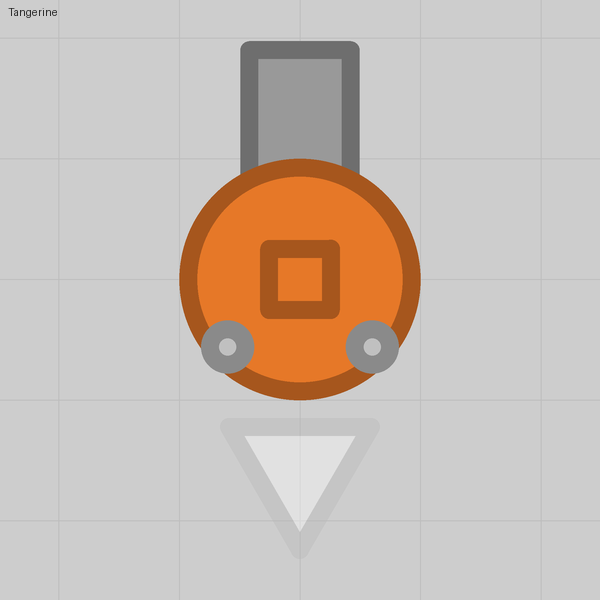
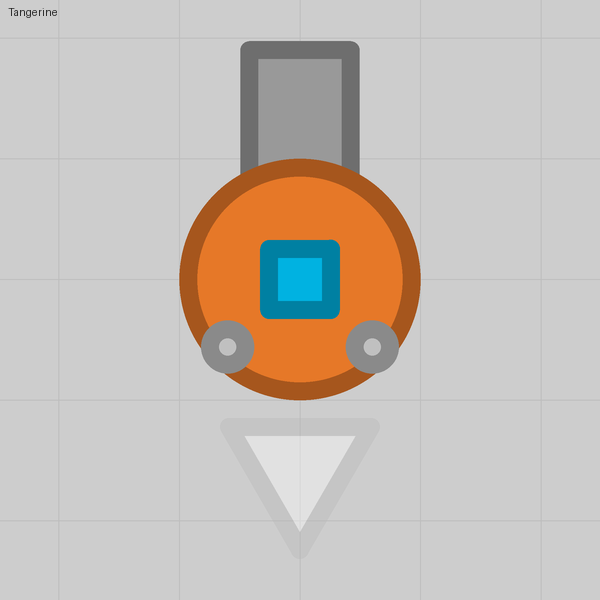
Lesson 22: a boss's own stat levels (the editor update of 2026-10-09); mock editor Boss stats panel
The editor update of 9 October 2026 gives every boss record its own stat levels
(0-12, stock levels 7 everywhere and 0 Health Regen; Max all). Lesson 22 says
so where it said the levels were fixed at 7; the mock inspector shows a Boss
stats panel from the record; the README and index name the update. Rebuilt
with skill 1.9.0, whose renderer now draws a 27 part on a hex hull in the
team colour, so lesson 21's Tangerine render and the sheet changed.

Changed region(s): [[0.42, 0.39, 0.57, 0.54]]

diff --git a/docs/22-boss.html b/docs/22-boss.html
@@ -23,15 +23,15 @@
 <h2>The trick</h2>
 <figure class="chalk"><svg xmlns="http://www.w3.org/2000/svg" viewBox="0 0 600 460" role="img" aria-label="A boss record wraps the tank: the same tank at Size 2.5, with its own health, brain and spawn rule" class="chalkboard"><title>A boss record wraps the tank: the same tank at Size 2.5, with its own health, brain and spawn rule</title><defs><filter id="ch-22-boss-c" x="-5%" y="-5%" width="110%" height="110%"><feTurbulence type="fractalNoise" baseFrequency="0.8" numOctaves="2" seed="7" result="n"/><feDisplacementMap in="SourceGraphic" in2="n" scale="2.6" xChannelSelector="R" yChannelSelector="G" result="d"/><feTurbulence type="fractalNoise" baseFrequency="1.6" numOctaves="1" seed="3" result="g"/><feColorMatrix in="g" type="matrix" values="0 0 0 0 0  0 0 0 0 0  0 0 0 0 0  0 0 0 -2.2 1.75" result="m"/><feComposite in="d" in2="m" operator="in"/></filter><filter id="ch-22-boss-t"><feTurbulence type="fractalNoise" baseFrequency="0.9" numOctaves="1" seed="5" result="n"/><feDisplacementMap in="SourceGraphic" in2="n" scale="1.3" xChannelSelector="R" yChannelSelector="G"/></filter></defs><rect x="3" y="3" width="594" height="454" rx="10" fill="#2c4a3a" stroke="#6b4a2e" stroke-width="6"/><ellipse cx="150" cy="138" rx="132" ry="60.7" fill="#ffffff" opacity="0.035"/><ellipse cx="450" cy="322" rx="180" ry="82.8" fill="#ffffff" opacity="0.035"/><ellipse cx="360" cy="69" rx="90" ry="41.4" fill="#ffffff" opacity="0.035"/><g filter="url(#ch-22-boss-c)"><g class="fig"><polygon points="149.8,107.1 139.6,124.6 129.5,107" fill="#36584a" stroke="#efeee6" stroke-width="3"/><polygon points="110,175.9 99.9,158.3 120.1,158.4" fill="#36584a" stroke="#efeee6" stroke-width="3"/><polygon points="70.2,107 90.5,107.1 80.4,124.6" fill="#36584a" stroke="#efeee6" stroke-width="3"/><polygon points="100.6,130 93.5,161.5 126.5,161.5 119.4,130" fill="#36584a" stroke="#efeee6" stroke-width="3"/><polygon points="121.3,130 121.3,76 98.7,76 98.7,130" fill="#36584a" stroke="#efeee6" stroke-width="3"/><polygon points="105.3,138.2 142.3,159.6 151.7,143.2 114.7,121.8" fill="#36584a" stroke="#efeee6" stroke-width="3"/><polygon points="105.3,121.8 68.3,143.2 77.7,159.6 114.7,138.2" fill="#36584a" stroke="#efeee6" stroke-width="3"/><circle cx="110" cy="130" r="27" fill="#3a6670" stroke="#efeee6" stroke-width="3"/><polygon points="110,112 125.6,139 94.4,139" fill="#36584a" stroke="#efeee6" stroke-width="3"/></g><g class="fig"><polygon points="477.2,193.9 452.4,236.8 427.6,193.9" fill="#36584a" stroke="#efeee6" stroke-width="3"/><polygon points="380,362.2 355.2,319.3 404.8,319.3" fill="#36584a" stroke="#efeee6" stroke-width="3"/><polygon points="282.8,193.9 332.4,193.9 307.6,236.8" fill="#36584a" stroke="#efeee6" stroke-width="3"/><polygon points="356.9,250 339.6,327 420.4,327 403.1,250" fill="#36584a" stroke="#efeee6" stroke-width="3"/><polygon points="407.5,250 407.5,118 352.5,118 352.5,250" fill="#36584a" stroke="#efeee6" stroke-width="3"/><polygon points="368.4,270 458.9,322.3 482,282.2 391.6,230" fill="#36584a" stroke="#efeee6" stroke-width="3"/><polygon points="368.4,230 278,282.2 301.1,322.3 391.6,270" fill="#36584a" stroke="#efeee6" stroke-width="3"/><circle cx="380" cy="250" r="66" fill="#3a6670" stroke="#efeee6" stroke-width="3"/><polygon points="380,206 418.1,272 341.9,272" fill="#36584a" stroke="#efeee6" stroke-width="3"/></g><path d="M165,150 Q207.5,167.5 240,200" fill="none" stroke="#f6e27a" stroke-width="3.5" stroke-linecap="round"/><path d="M235.9,185.8 L240,200 L225.8,195.9" fill="none" stroke="#f6e27a" stroke-width="3.5" stroke-linecap="round" stroke-linejoin="round"/><path d="M239.4,340.2 Q304,371.2 375.1,361.4" fill="none" stroke="#f6e27a" stroke-width="3.5" stroke-linecap="round"/><path d="M361.2,356.1 L375.1,361.4 L363.2,370.3" fill="none" stroke="#f6e27a" stroke-width="3.5" stroke-linecap="round" stroke-linejoin="round"/><polygon points="549,415.6 524.4,409 531,384.4 555.6,391" fill="#55524a" stroke="#f4a7b9" stroke-width="3"/><path d="M510,380 Q464.5,295.5 380,250" fill="none" stroke="#f4a7b9" stroke-width="3.5" stroke-linecap="round" stroke-dasharray="8 7"/><path d="M388.1,262.5 L380,250 L394.8,249.9" fill="none" stroke="#f4a7b9" stroke-width="3.5" stroke-linecap="round" stroke-linejoin="round"/><path d="M223.6,401.2 Q361.5,450 495,390.2" fill="none" stroke="#f6e27a" stroke-width="3.5" stroke-linecap="round"/><path d="M480.2,389 L495,390.2 L486.1,402" fill="none" stroke="#f6e27a" stroke-width="3.5" stroke-linecap="round" stroke-linejoin="round"/></g><text filter="url(#ch-22-boss-t)" font-family="Caveat, 'Segoe Print', 'Comic Sans MS', cursive" font-size="30" font-weight="700" fill="#efeee6" text-anchor="middle" dominant-baseline="middle"><tspan x="110" y="215">the tank</tspan></text><text filter="url(#ch-22-boss-t)" font-family="Caveat, 'Segoe Print', 'Comic Sans MS', cursive" font-size="33" font-weight="700" fill="#f6e27a" text-anchor="middle" dominant-baseline="middle"><tspan x="110" y="304.3">Size 2.5: the whole</tspan><tspan x="110" y="335.7">tank scales</tspan></text><text filter="url(#ch-22-boss-t)" font-family="Caveat, 'Segoe Print', 'Comic Sans MS', cursive" font-size="28" font-weight="700" fill="#f6e27a" text-anchor="middle" dominant-baseline="middle"><tspan x="470" y="22.1">Boss: Warden</tspan><tspan x="470" y="48.7">Health 6000</tspan><tspan x="470" y="75.3">Brain: Simple</tspan><tspan x="470" y="101.9">Charge and ram</tspan></text><text filter="url(#ch-22-boss-t)" font-family="Caveat, 'Segoe Print', 'Comic Sans MS', cursive" font-size="24" font-weight="700" fill="#f4a7b9" text-anchor="middle" dominant-baseline="middle"><tspan x="540" y="440">a player</tspan></text><text filter="url(#ch-22-boss-t)" font-family="Caveat, 'Segoe Print', 'Comic Sans MS', cursive" font-size="28" font-weight="700" fill="#f6e27a" text-anchor="middle" dominant-baseline="middle"><tspan x="130" y="378.4">Spot range 2000:</tspan><tspan x="130" y="405">it fights what</tspan><tspan x="130" y="431.6">comes close</tspan></text></svg></figure>
 <p>The editor update of 6 October 2026 added a <b>Bosses</b> tab. A boss is two things:</p>
-<ol><li><b>A tank</b> like any other, usually a <b>boss copy</b>: select a tank and press <b>Make a boss copy</b>. The copy is marked boss-only, so the editor drops it from the class tree and the starters, and its <b>Stat levels</b> panel is fixed at 7 for every stat (health regen 0) and read-only. You can still edit its parts and barrels, and that is where its guns, drones and hitboxes come from.</li><li><b>A boss record</b> in the Bosses tab (<b>New boss</b>, or <b>New boss from copy</b>) that picks the tank and sets everything else: <b>Name</b>, <b>Spawn message</b>, <b>Size</b>, <b>Health</b>, the score it is worth, its <b>Brain</b>, what it does when it spots a player, where and how often it spawns.</li></ol>
+<ol><li><b>A tank</b> like any other, usually a <b>boss copy</b>: select a tank and press <b>Make a boss copy</b>. The copy is marked boss-only, so the editor drops it from the class tree and the starters. Its stats panel becomes <b>Boss stats</b>: eight sliders, 0 to 12, for the level the boss plays each stat at (the update of 9 October 2026; before it every boss played at 7). <b>Stock levels</b> puts them back to 7 everywhere and 0 Health Regen, the stock bosses' way; <b>Max all</b> sets twelve everywhere. The tank's own stat caps do not apply to a boss. You can still edit its parts and barrels, and that is where its guns, drones and hitboxes come from.</li><li><b>A boss record</b> in the Bosses tab (<b>New boss</b>, or <b>New boss from copy</b>) that picks the tank and sets everything else: <b>Name</b>, <b>Spawn message</b>, <b>Size</b>, <b>Health</b>, the score it is worth, its <b>Brain</b>, what it does when it spots a player, where and how often it spawns.</li></ol>
 <p>The demo tank is the boss copy; the record is shown under the body in the mock inspector.</p>
-<div class="scene" data-scene><script type="application/json">{"steps": [{"show": [], "focus": "Tank body", "say": "The tank: **Body size 60** in **Fallen**, the stock bosses' grey. Its **Stat levels** are fixed at 7: a boss plays maxed."}, {"show": ["horn 1 (collidable)", "horn 2 (collidable)", "horn 3 (collidable)"], "focus": "horn 1 (collidable)", "say": "Three triangles of **Size 26** with **Collidable** on: the boss rams with them. Up to eight parts can be collidable since the update (lesson 12)."}, {"show": ["horn 1 (collidable)", "horn 2 (collidable)", "horn 3 (collidable)", "spawner", "main gun", "side gun left", "side gun right"], "focus": "main gun", "say": "Its weapons: a wide **Length 120** cannon, two side guns at **Angle ±120**, and a rear **spawner** with 4 drones. The simple brain fires every gun it has; the drones hunt on their own."}, {"show": "all", "focus": "Tank body", "say": "Now scroll the inspector to the **Boss** sections: the record from the Bosses tab. **Size 2.5**, **Health 6000**, **Brain: Simple**, **When it spots a player: Charge and ram** within **Spot range 2000**, **Wander around** otherwise, spawning in the inner **0 to 0.4** of the map."}, {"live": true, "say": "**Play** drives the tank itself, at level 1 size. In the game the record takes over: the boss AI drives it at Size 2.5, and a player can press **H** to take control."}], "tank": {"id": 100001, "name": "Warden", "minLevel": 1, "body": {"sides": 0, "size": 60, "color": 17}, "projectiles": [{"name": "Drone", "base": "drone", "sides": -1}, {"name": "Bullet", "base": "bullet", "sides": -1}], "invisibility": {"gain": 0.03076923076923077, "lossOnHit": 0.05}, "statsMaxLevel": [7, 7, 7, 7, 7, 7, 7, 7], "editor": {"boss": true}, "barrels": [{"bulletType": "drone", "projectile": 0, "flags": {"forceFire": true}, "angle": 3.1416, "distance": 70, "muzzleScale": 1.75, "numDrones": 4, "droneAggressiveCrashRadius": 900, "damageMultiplier": 0.7, "penetrationMultiplier": 2, "speedMultiplier": 0.8, "reloadMultiplier": 6, "order": 4, "editor": {"name": "spawner"}}, {"bulletType": "bullet", "projectile": 1, "distance": 120, "heightMultiplier": 1.1905, "order": 5, "editor": {"name": "main gun"}}, {"bulletType": "bullet", "projectile": 1, "angle": 2.0944, "order": 6, "editor": {"name": "side gun left"}}, {"bulletType": "bullet", "projectile": 1, "angle": -2.0944, "order": 7, "editor": {"name": "side gun right"}}], "bodyShapes": [{"sides": 3, "size": 40, "aboveBody": true, "color": 20, "order": 0, "editor": {"name": "crest"}}, {"sides": 3, "size": 26, "xOffset": 38, "yOffset": 65.8179, "angle": 1.0472, "color": 17, "collidable": true, "order": 1, "editor": {"name": "horn 1 (collidable)"}}, {"sides": 3, "size": 26, "xOffset": -76, "angle": 3.1416, "color": 17, "collidable": true, "order": 2, "editor": {"name": "horn 2 (collidable)"}}, {"sides": 3, "size": 26, "xOffset": 38, "yOffset": -65.8179, "angle": 5.236, "color": 17, "collidable": true, "order": 3, "editor": {"name": "horn 3 (collidable)"}}]}, "packFile": "lesson-22-boss.diep-pack", "packName": "Lesson 22 Boss", "author": "☀", "label": "#C1", "boss": {"tank": 100001, "name": "Warden", "spawnMessage": "The Warden wakes!", "maxHealth": 6000, "xpBounty": 50000, "scale": 2.5, "ai": {"aggressiveCrashRadius": 2000}, "minDamageMultiplier": 4}}</script><noscript>The interactive demo needs JavaScript.</noscript></div>
+<div class="scene" data-scene><script type="application/json">{"steps": [{"show": [], "focus": "Tank body", "say": "The tank: **Body size 60** in **Fallen**, the stock bosses' grey. Its **Boss stats** are the stock levels: 7 everywhere, Health Regen 0. Raise Body Damage and Max Health for a rammer, Reload and Bullet Damage for a gunner."}, {"show": ["horn 1 (collidable)", "horn 2 (collidable)", "horn 3 (collidable)"], "focus": "horn 1 (collidable)", "say": "Three triangles of **Size 26** with **Collidable** on: the boss rams with them. Up to eight parts can be collidable since the update (lesson 12)."}, {"show": ["horn 1 (collidable)", "horn 2 (collidable)", "horn 3 (collidable)", "spawner", "main gun", "side gun left", "side gun right"], "focus": "main gun", "say": "Its weapons: a wide **Length 120** cannon, two side guns at **Angle ±120**, and a rear **spawner** with 4 drones. The simple brain fires every gun it has; the drones hunt on their own."}, {"show": "all", "focus": "Tank body", "say": "Now scroll the inspector to the **Boss** sections: the record from the Bosses tab. **Size 2.5**, **Health 6000**, **Brain: Simple**, **When it spots a player: Charge and ram** within **Spot range 2000**, **Wander around** otherwise, spawning in the inner **0 to 0.4** of the map."}, {"live": true, "say": "**Play** drives the tank itself, at level 1 size. In the game the record takes over: the boss AI drives it at Size 2.5, and a player can press **H** to take control."}], "tank": {"id": 100001, "name": "Warden", "minLevel": 1, "body": {"sides": 0, "size": 60, "color": 17}, "projectiles": [{"name": "Drone", "base": "drone", "sides": -1}, {"name": "Bullet", "base": "bullet", "sides": -1}], "invisibility": {"gain": 0.03076923076923077, "lossOnHit": 0.05}, "statsMaxLevel": [7, 7, 7, 7, 7, 7, 7, 7], "editor": {"boss": true}, "barrels": [{"bulletType": "drone", "projectile": 0, "flags": {"forceFire": true}, "angle": 3.1416, "distance": 70, "muzzleScale": 1.75, "numDrones": 4, "droneAggressiveCrashRadius": 900, "damageMultiplier": 0.7, "penetrationMultiplier": 2, "speedMultiplier": 0.8, "reloadMultiplier": 6, "order": 4, "editor": {"name": "spawner"}}, {"bulletType": "bullet", "projectile": 1, "distance": 120, "heightMultiplier": 1.1905, "order": 5, "editor": {"name": "main gun"}}, {"bulletType": "bullet", "projectile": 1, "angle": 2.0944, "order": 6, "editor": {"name": "side gun left"}}, {"bulletType": "bullet", "projectile": 1, "angle": -2.0944, "order": 7, "editor": {"name": "side gun right"}}], "bodyShapes": [{"sides": 3, "size": 40, "aboveBody": true, "color": 20, "order": 0, "editor": {"name": "crest"}}, {"sides": 3, "size": 26, "xOffset": 38, "yOffset": 65.8179, "angle": 1.0472, "color": 17, "collidable": true, "order": 1, "editor": {"name": "horn 1 (collidable)"}}, {"sides": 3, "size": 26, "xOffset": -76, "angle": 3.1416, "color": 17, "collidable": true, "order": 2, "editor": {"name": "horn 2 (collidable)"}}, {"sides": 3, "size": 26, "xOffset": 38, "yOffset": -65.8179, "angle": 5.236, "color": 17, "collidable": true, "order": 3, "editor": {"name": "horn 3 (collidable)"}}]}, "packFile": "lesson-22-boss.diep-pack", "packName": "Lesson 22 Boss", "author": "☀", "label": "#C1", "boss": {"tank": 100001, "name": "Warden", "spawnMessage": "The Warden wakes!", "maxHealth": 6000, "xpBounty": 50000, "scale": 2.5, "ai": {"aggressiveCrashRadius": 2000}, "minDamageMultiplier": 4}}</script><noscript>The interactive demo needs JavaScript.</noscript></div>
 <h2>The record, field by field</h2>
 <table><thead><tr><th>Field</th><th>Warden</th><th>Notes</th></tr></thead><tbody><tr><td>Size</td><td>2.5</td><td>Scales the tank and everything on it; 4 is the most. The stock bosses: Guardian 1.55, Summoner and Defender 1.72, the two Fallen 2.09, Decade 2.87</td></tr><tr><td>Health</td><td>6000</td><td>Does <b>not</b> grow with Size. Stock bosses 3000, Decade 10000. A Size 4 boss at 3000 is a big soft target</td></tr><tr><td>Score for killing it</td><td>50000</td><td>Stock 30000, Decade 100000</td></tr><tr><td>Brain</td><td>Simple</td><td><b>Simple</b> drifts, rams and shoots: the stock bosses' brain. <b>Bot</b> plays the body like a sandbox bot, with a skill and a retreat threshold; in our one test it mostly wandered</td></tr><tr><td>When it spots a player</td><td>Charge and ram</td><td>Also <b>Stop and shoot</b>, <b>Keep distance and strafe</b>, <b>Wander and shoot at them</b>, or <b>Ignore them</b> (only its turrets and drones fight, the way Decade and four of the five stock bosses are built)</td></tr><tr><td>Spot range</td><td>2000</td><td>The most. The default form writes 1500. <b>A simple-brain boss fights what comes inside this range and does not hunt across the map</b> (seen in play, 6 October 2026), so place it where players must pass</td></tr><tr><td>When no one is near</td><td>Wander around</td><td>Or <b>Circle the map centre</b>, like the Guardian</td></tr><tr><td>Ignores players below level</td><td>15</td><td>The stock bosses' value; 0 attacks everyone</td></tr><tr><td>On the shapes' team</td><td>on</td><td>Bases ignore it. Off makes a Fallen-style enemy tank; a necromancer boss needs off to raise shapes</td></tr><tr><td>Spawn ring, How often</td><td>0 to 0.4, weight 1</td><td>The same bands as custom shapes. Weight 0 keeps it out of the rotation: it then comes only by console</td></tr></tbody></table>
 <h2>Spawning it</h2>
 <ul><li><b>Boss Auto-Spawn must be on</b> in the lobby's admin panel, or no boss ever spawns on its own. The editor warns "Boss auto-spawn is off" with a Turn on button when it is off.</li><li>The lobby's <b>boss rotation</b> runs while the pack is loaded: by default one boss every 45 minutes, the first after 45, at most one alive. The pack can set the gap, the first delay, how many may be alive at once, and how many players must be online; it can also hide the lobby's five stock bosses or change how often each spawns, so a themed arena stays themed.</li><li>From the console: <code>spawn_boss warden</code> (the name, lower-case, spaces removed). <code>set_boss &lt;playerId&gt; warden</code> turns a player into it. In the editor, <b>Play</b> can play any boss.</li><li>A player can press <b>H</b> to take over a boss where the lobby allows it; untick <b>Players can take control</b> to keep it AI-driven.</li></ul>
 <h2>Gotchas</h2>
-<ul><li><b>One tank per boss record.</b> The export renames every record after its tank, so two records on one tank come back with one name and <code>spawn_boss</code> cannot tell them apart. A variant boss gets its own boss copy.</li><li><b>Tune the guns in the tank, not the record.</b> The record sets Size, Health and body damage on touch; damage, reload and drone counts are the tank's, played at stat level 7, so a boss copy of a maxed-out tank is brutal. Our test bosses had to have their guns turned down before anyone could study them.</li><li>Big parts, strong contrast and few colours survive the scale. Fine line art does not.</li><li>A boss uses the same budget as any tank (lesson 15), rated at Reload level 7.</li><li>There is one number the Bosses tab does not show: a damage floor the game writes on its own bosses (4, and 6 on Fallen Booster). A pack file can carry it (<code>minDamageMultiplier</code>), and 6 bit clearly harder in play. The form keeps it when you edit the pack.</li></ul></article><div class="nav-row"><a href="21-colours.html">‹ Your own colours</a><a href="index.html">All lessons</a><a href="index.html">Back to the start ›</a></div>
+<ul><li><b>One tank per boss record.</b> The export renames every record after its tank, so two records on one tank come back with one name and <code>spawn_boss</code> cannot tell them apart. A variant boss gets its own boss copy.</li><li><b>Tune the guns in the tank, the levels in the record.</b> The record sets Size, Health, body damage on touch and, since 9 October 2026, the <b>Boss stats</b> (the level each stat plays at, 0 to 12; the stock bosses play 7 with no regen). Damage multipliers, reload and drone counts are the tank's. A boss copy of a maxed-out tank at stock levels is already brutal: our test bosses had to have their guns turned down before anyone could study them. The effect of the levels in play has not been measured yet.</li><li>Big parts, strong contrast and few colours survive the scale. Fine line art does not.</li><li>A boss uses the same budget as any tank (lesson 15), rated at the higher of its tank's Reload cap and its Boss stats Reload level: a boss at Reload 12 is rated 1.5 times the rate of one at 7.</li><li>There is one number the Bosses tab does not show: a damage floor the game writes on its own bosses (4, and 6 on Fallen Booster). A pack file can carry it (<code>minDamageMultiplier</code>), and 6 bit clearly harder in play. The form keeps it when you edit the pack.</li></ul></article><div class="nav-row"><a href="21-colours.html">‹ Your own colours</a><a href="index.html">All lessons</a><a href="index.html">Back to the start ›</a></div>
 </main>
 <footer>Packs and lessons by Sunshine ☀ · built with the <a href="https://github.com/RedNebulaSunshine/diep-pack-skill">diep-pack skill</a> · <a href="https://github.com/RedNebulaSunshine/diep-tank-lessons">source, issues and corrections</a> · MIT. Diep.io and its editor belong to the game's publisher; this site is not affiliated with them.</footer>
 <script src="assets/tank.js"></script>

diff --git a/docs/index.html b/docs/index.html
@@ -25,7 +25,7 @@
 <h2>Importing a lesson pack</h2>
 <ol><li>In the editor's pack screen press <b>Import pack</b> and choose the <code>.diep-pack</code> file (or drop it on the window).</li><li>Pick <b>Import as new pack</b>. (<b>Add to this pack</b> also works and puts the demo tank into the pack you are editing.)</li><li>Select the tank and press <b>Play</b> to spawn as it. Lesson tanks sit at level 1 under the stock Tank, so they also show up as an upgrade.</li></ol>
 <p>Or press <b>Copy tank JSON</b> on a lesson, open a pack of yours in the editor and press <b>Ctrl+V</b>. All 24 demo tanks are also in one pack, the lesson 22 boss included: <a href="packs/tank-lessons.diep-pack">tank-lessons.diep-pack</a>.</p>
-<p>Lessons 19 to 22 cover what the editor update of 6 October 2026 added: parts that ride parts, parts that keep their heading, your own colours, and bosses. The editor now labels custom tanks <b>#C1, #C2 …</b> in pack order; the mock here does the same.</p>
+<p>Lessons 19 to 22 cover what the editor update of 6 October 2026 added: parts that ride parts, parts that keep their heading, your own colours, and bosses (lesson 22 includes the boss stat levels of the 9 October 2026 update). The editor now labels custom tanks <b>#C1, #C2 …</b> in pack order; the mock here does the same.</p>
 <blockquote><p>The demos here are a sketch of the game, not the game: speeds and timings are approximate, and the editor's own preview does not animate at all. What the field names and numbers do is exact.</p></blockquote></article><div class="grid"><a class="lesson-card" href="00-layers.html"><div class="art"><img src="img/lesson-00-layers-layers.png" alt="" loading="lazy"></div><div class="num">Lesson 00</div><div class="name">How the editor draws a tank</div><div class="sum">Barrels, parts and auto turrets are stacked in layers, and the body splits what draws over it from what draws under it.</div></a><a class="lesson-card" href="01-face.html"><div class="art"><img src="img/lesson-01-face-face.png" alt="" loading="lazy"></div><div class="num">Lesson 01</div><div class="name">A face that keeps the team colour</div><div class="sum">Paint anything you like over the body, as long as the body itself stays on Team color and shows through somewhere.</div></a><a class="lesson-card" href="02-line-art.html"><div class="art"><img src="img/lesson-02-line-art-line-art.png" alt="" loading="lazy"></div><div class="num">Lesson 02</div><div class="name">Drawing with barrels</div><div class="sum">A barrel that fires nothing is a rectangle you can put anywhere, hair-thin or fanned out, even across the middle of the face.</div></a><a class="lesson-card" href="03-spin-pulse.html"><div class="art"><img src="img/lesson-03-spin-and-pulse-lantern.png" alt="" loading="lazy"></div><div class="num">Lesson 03</div><div class="name">Spinning parts and a pulsing light</div><div class="sum">Spin speed turns a part on its own, and two stars spinning against each other read as a light that pulses.</div></a><a class="lesson-card" href="04-pistons.html"><div class="art"><img src="img/lesson-04-pistons-flapper.png" alt="" loading="lazy"></div><div class="num">Lesson 04</div><div class="name">Parts that pump</div><div class="sum">A wing or a leg that moves is a barrel firing a harmless speck, because every barrel that fires slides back on the shot.</div></a><a class="lesson-card" href="05-eyes.html"><div class="art"><img src="img/lesson-05-eyes-watcher.png" alt="" loading="lazy"></div><div class="num">Lesson 05</div><div class="name">Eyes that watch</div><div class="sum">An auto turret turns toward the nearest enemy. Make its disc the eyeball and let the pupil ride on it.</div></a><a class="lesson-card" href="06-tail.html"><div class="art"><img src="img/lesson-06-tail-swisher.png" alt="" loading="lazy"></div><div class="num">Lesson 06</div><div class="name">A tail that swings</div><div class="sum">A turret with a narrow arc, facing backward, mostly rests; when the tank turns it lags and settles back, and anything riding it swings.</div></a><a class="lesson-card" href="07-hand.html"><div class="art"><img src="img/lesson-07-hand-waver.png" alt="" loading="lazy"></div><div class="num">Lesson 07</div><div class="name">A hand that follows the cursor</div><div class="sum">An auto turret with Range 0 that aims with the cursor rests at its Facing, swings to the cursor while you hold fire, and drops back when you let go.</div></a><a class="lesson-card" href="08-jaws.html"><div class="art"><img src="img/lesson-08-jaws-chomper.png" alt="" loading="lazy"></div><div class="num">Lesson 08</div><div class="name">Jaws that bite</div><div class="sum">Two cursor pivots resting apart swing together when you hold fire, and invisible barrels along the jaws hurt whatever is caught between them.</div></a><a class="lesson-card" href="09-limbs.html"><div class="art"><img src="img/lesson-09-limbs-scuttler.png" alt="" loading="lazy"></div><div class="num">Lesson 09</div><div class="name">Limbs that live</div><div class="sum">Give a cursor pivot a Range as well, and the limb twitches toward passing enemies while you are idle and follows the cursor while you fire.</div></a><a class="lesson-card" href="10-trail.html"><div class="art"><img src="img/lesson-10-trail-slither.png" alt="" loading="lazy"></div><div class="num">Lesson 10</div><div class="name">A body that trails behind</div><div class="sum">An invisible rear barrel that always fires a shot with no speed leaves a segment wherever the tank was, so a chain follows every bend.</div></a><a class="lesson-card" href="11-dash.html"><div class="art"><img src="img/lesson-11-dash-pouncer.png" alt="" loading="lazy"></div><div class="num">Lesson 11</div><div class="name">A dash on right click</div><div class="sum">An invisible barrel pointing backward fires a harmless shot with huge Recoil, and the kick throws the tank forward.</div></a><a class="lesson-card" href="12-hitbox.html"><div class="art"><img src="img/lesson-12-hitbox-shell.png" alt="" loading="lazy"></div><div class="num">Lesson 12</div><div class="name">Hiding the body, keeping a hitbox</div><div class="sum">Shrink the body to a dot and give the figure a hitbox of its own with a Collidable part.</div></a><a class="lesson-card" href="13-shots.html"><div class="art"><img src="img/lesson-13-shots-thrower.png" alt="" loading="lazy"></div><div class="num">Lesson 13</div><div class="name">Shots that are pictures</div><div class="sum">A projectile has its own layers, so a bullet can be a bat, an egg, a skull or a spiky star with an eye.</div></a><a class="lesson-card" href="14-ghost.html"><div class="art"><img src="img/lesson-14-ghost-haunt.png" alt="" loading="lazy"></div><div class="num">Lesson 14</div><div class="name">Ghosts that fade</div><div class="sum">Invisibility is three numbers, and parts marked Visible while invisible stay drawn while the rest of the tank is gone.</div></a><a class="lesson-card" href="15-budget.html"><div class="art"><img src="img/lesson-15-budget-thrifty.png" alt="" loading="lazy"></div><div class="num">Lesson 15</div><div class="name">Staying under the lobby&#x27;s budget</div><div class="sum">The lobby refuses a tank that fires too much, keeps too much alive or has too many pieces; here is what counts and the one stat that buys you room.</div></a><a class="lesson-card" href="16-missile.html"><div class="art"><img src="img/lesson-16-missile-hornet.png" alt="" loading="lazy"></div><div class="num">Lesson 16</div><div class="name">A missile that steers itself</div><div class="sum">A bullet with a backward barrel on it is a rocket. Put that barrel on an auto turret and the rocket turns toward whatever the turret sees.</div></a><a class="lesson-card" href="17-warhead.html"><div class="art"><img src="img/lesson-17-warhead-flak.png" alt="" loading="lazy"></div><div class="num">Lesson 17</div><div class="name">A missile that bursts</div><div class="sum">A short barrel that fires when the missile dies is a warhead. Put that barrel on a second, short-sighted turret and the missile goes off by itself when something comes close.</div></a><a class="lesson-card" href="18-cluster.html"><div class="art"><img src="img/lesson-18-cluster-volley.png" alt="" loading="lazy"></div><div class="num">Lesson 18</div><div class="name">A salvo that fans out</div><div class="sum">Six missiles leave the tube as one, a sideways recoil barrel kicks them apart a moment later, and each bursts when it dies. The missiles are drones, which is what makes the volley affordable.</div></a><a class="lesson-card" href="19-rider.html"><div class="art"><img src="img/lesson-19-rider-orrery.png" alt="" loading="lazy"></div><div class="num">Lesson 19</div><div class="name">A part that rides a part</div><div class="sum">Since the October 2026 update a part or a barrel can sit on another part. Spin the carrier and everything riding it goes round: moons, a lantern wheel, a chained tail, a gun ring that turns and fires.</div></a><a class="lesson-card" href="20-fixed.html"><div class="art"><img src="img/lesson-20-fixed-navigator.png" alt="" loading="lazy"></div><div class="num">Lesson 20</div><div class="name">A part that keeps its heading</div><div class="sum">A part's Rotation can be Fixed. It then holds its angle in the world while the tank turns, like a dominator's base or a compass needle.</div></a><a class="lesson-card" href="21-colours.html"><div class="art"><img src="img/lesson-21-colours-tangerine.png" alt="" loading="lazy"></div><div class="num">Lesson 21</div><div class="name">Your own colours</div><div class="sum">Every colour box now takes any colour as a hex code, with an opacity slider. A body painted this way still gives its Same-color parts the team colour, and the new Fallen swatch is the stock bosses' grey.</div></a><a class="lesson-card" href="22-boss.html"><div class="art"><img src="img/lesson-22-boss-warden.png" alt="" loading="lazy"></div><div class="num">Lesson 22</div><div class="name">A boss of your own</div><div class="sum">A pack can now spawn bosses. A boss is a record in the Bosses tab that wraps one of your tanks: a size, a health bar, a brain, a behaviour, a spawn ring. Here is one, and what the game does with it.</div></a></div>
 </main>
 <footer>Packs and lessons by Sunshine ☀ · built with the <a href="https://github.com/RedNebulaSunshine/diep-pack-skill">diep-pack skill</a> · <a href="https://github.com/RedNebulaSunshine/diep-tank-lessons">source, issues and corrections</a> · MIT. Diep.io and its editor belong to the game's publisher; this site is not affiliated with them.</footer>

diff --git a/docs/assets/editor.js b/docs/assets/editor.js
@@ -41,8 +41,8 @@
         F('Reveal distance', num(inv.revealDistance, 0), 'num', 'Enemies this close see it faintly. 0 never reveals.'),
         F('Hits to reveal', loh > 0 ? fmtN(0.3 / loh + 1) : 'Never', 'text')] });
       if (tank.helpText) S.push({ head: 'Tip', fields: [F('Tip', tank.helpText, 'text', 'Shown to a player for ten seconds when they switch to this tank.')] });
-      S.push({ head: isBoss ? 'Stat levels (fixed for a boss)' : 'Stat points (max per stat)', hint: isBoss ? 'A boss plays every stat at level 7 and never regenerates; this panel is read-only.' : null,
-        fields: [F('Movement Speed · Reload · Bullet Damage · Bullet Penetration · Bullet Speed · Body Damage · Max Health · Health Regen', (tank.statsMaxLevel || [7, 7, 7, 7, 7, 7, 7, 7]).join(' · '), 'text')] });
+      S.push({ head: isBoss ? 'Boss stats' : 'Stat points (max per stat)', hint: isBoss ? 'The levels the boss runs each stat at (0 to 12; the update of 9 October 2026). Its body's stat caps don't apply. Stock levels = 7 everywhere, Health Regen 0; Max all = 12 everywhere.' : null,
+        fields: [F('Movement Speed · Reload · Bullet Damage · Bullet Penetration · Bullet Speed · Body Damage · Max Health · Health Regen', (isBoss ? ((boss && boss.statLevels) || [7, 7, 7, 7, 7, 7, 7, 0]) : (tank.statsMaxLevel || [7, 7, 7, 7, 7, 7, 7, 7])).join(' · '), 'text')] });
       if (boss) S.push.apply(S, bossSections(boss));
     } else if (part.kind === 'barrel') {
       const fl = d.flags || {};

diff --git a/lessons/22-boss.md b/lessons/22-boss.md
@@ -15,14 +15,14 @@ A grey three-horned tank with a drone spawner at the back and a big gun in front
 
 The editor update of 6 October 2026 added a **Bosses** tab. A boss is two things:
 
-1. **A tank** like any other, usually a **boss copy**: select a tank and press **Make a boss copy**. The copy is marked boss-only, so the editor drops it from the class tree and the starters, and its **Stat levels** panel is fixed at 7 for every stat (health regen 0) and read-only. You can still edit its parts and barrels, and that is where its guns, drones and hitboxes come from.
+1. **A tank** like any other, usually a **boss copy**: select a tank and press **Make a boss copy**. The copy is marked boss-only, so the editor drops it from the class tree and the starters. Its stats panel becomes **Boss stats**: eight sliders, 0 to 12, for the level the boss plays each stat at (the update of 9 October 2026; before it every boss played at 7). **Stock levels** puts them back to 7 everywhere and 0 Health Regen, the stock bosses' way; **Max all** sets twelve everywhere. The tank's own stat caps do not apply to a boss. You can still edit its parts and barrels, and that is where its guns, drones and hitboxes come from.
 2. **A boss record** in the Bosses tab (**New boss**, or **New boss from copy**) that picks the tank and sets everything else: **Name**, **Spawn message**, **Size**, **Health**, the score it is worth, its **Brain**, what it does when it spots a player, where and how often it spawns.
 
 The demo tank is the boss copy; the record is shown under the body in the mock inspector.
 
 ```scene
 {"steps": [
- {"show": [], "focus": "Tank body", "say": "The tank: **Body size 60** in **Fallen**, the stock bosses' grey. Its **Stat levels** are fixed at 7: a boss plays maxed."},
+ {"show": [], "focus": "Tank body", "say": "The tank: **Body size 60** in **Fallen**, the stock bosses' grey. Its **Boss stats** are the stock levels: 7 everywhere, Health Regen 0. Raise Body Damage and Max Health for a rammer, Reload and Bullet Damage for a gunner."},
  {"show": ["horn 1 (collidable)", "horn 2 (collidable)", "horn 3 (collidable)"], "focus": "horn 1 (collidable)", "say": "Three triangles of **Size 26** with **Collidable** on: the boss rams with them. Up to eight parts can be collidable since the update (lesson 12)."},
  {"show": ["horn 1 (collidable)", "horn 2 (collidable)", "horn 3 (collidable)", "spawner", "main gun", "side gun left", "side gun right"], "focus": "main gun", "say": "Its weapons: a wide **Length 120** cannon, two side guns at **Angle ±120**, and a rear **spawner** with 4 drones. The simple brain fires every gun it has; the drones hunt on their own."},
  {"show": "all", "focus": "Tank body", "say": "Now scroll the inspector to the **Boss** sections: the record from the Bosses tab. **Size 2.5**, **Health 6000**, **Brain: Simple**, **When it spots a player: Charge and ram** within **Spot range 2000**, **Wander around** otherwise, spawning in the inner **0 to 0.4** of the map."},
@@ -55,7 +55,7 @@ The demo tank is the boss copy; the record is shown under the body in the mock i
 ## Gotchas
 
 - **One tank per boss record.** The export renames every record after its tank, so two records on one tank come back with one name and `spawn_boss` cannot tell them apart. A variant boss gets its own boss copy.
-- **Tune the guns in the tank, not the record.** The record sets Size, Health and body damage on touch; damage, reload and drone counts are the tank's, played at stat level 7, so a boss copy of a maxed-out tank is brutal. Our test bosses had to have their guns turned down before anyone could study them.
+- **Tune the guns in the tank, the levels in the record.** The record sets Size, Health, body damage on touch and, since 9 October 2026, the **Boss stats** (the level each stat plays at, 0 to 12; the stock bosses play 7 with no regen). Damage multipliers, reload and drone counts are the tank's. A boss copy of a maxed-out tank at stock levels is already brutal: our test bosses had to have their guns turned down before anyone could study them. The effect of the levels in play has not been measured yet.
 - Big parts, strong contrast and few colours survive the scale. Fine line art does not.
-- A boss uses the same budget as any tank (lesson 15), rated at Reload level 7.
+- A boss uses the same budget as any tank (lesson 15), rated at the higher of its tank's Reload cap and its Boss stats Reload level: a boss at Reload 12 is rated 1.5 times the rate of one at 7.
 - There is one number the Bosses tab does not show: a damage floor the game writes on its own bosses (4, and 6 on Fallen Booster). A pack file can carry it (`minDamageMultiplier`), and 6 bit clearly harder in play. The form keeps it when you edit the pack.

diff --git a/lessons/index.md b/lessons/index.md
@@ -19,6 +19,6 @@ Start with lesson 00 if you have never looked at the Layers panel; otherwise jum
 
 Or press **Copy tank JSON** on a lesson, open a pack of yours in the editor and press **Ctrl+V**. All 24 demo tanks are also in one pack, the lesson 22 boss included: [tank-lessons.diep-pack](packs/tank-lessons.diep-pack).
 
-Lessons 19 to 22 cover what the editor update of 6 October 2026 added: parts that ride parts, parts that keep their heading, your own colours, and bosses. The editor now labels custom tanks **#C1, #C2 …** in pack order; the mock here does the same.
+Lessons 19 to 22 cover what the editor update of 6 October 2026 added: parts that ride parts, parts that keep their heading, your own colours, and bosses (lesson 22 includes the boss stat levels of the 9 October 2026 update). The editor now labels custom tanks **#C1, #C2 …** in pack order; the mock here does the same.
 
 > The demos here are a sketch of the game, not the game: speeds and timings are approximate, and the editor's own preview does not animate at all. What the field names and numbers do is exact.

diff --git a/README.md b/README.md
@@ -58,9 +58,9 @@ The pages need no server: open `docs/index.html` from disk and everything works.
 ## Corrections
 
 If a field name, a number or a claim about the game is wrong, open an issue. The lessons
-describe the editor as of its update of 6 October 2026 (custom bosses, custom colours, parts
-riding parts, fixed rotation, eight hitboxes); the editor is a work in progress and its labels
-can change. The game's menu now has a rules page (what gets a ban, which scripts are allowed);
+describe the editor as of its updates of 6 October 2026 (custom bosses, custom colours, parts
+riding parts, fixed rotation, eight hitboxes) and 9 October 2026 (a boss's own stat levels,
+nine turrets); the editor is a work in progress and its labels can change. The game's menu now has a rules page (what gets a ban, which scripts are allowed);
 read it before hosting packs for other people.
 
 ## Licence and credits
